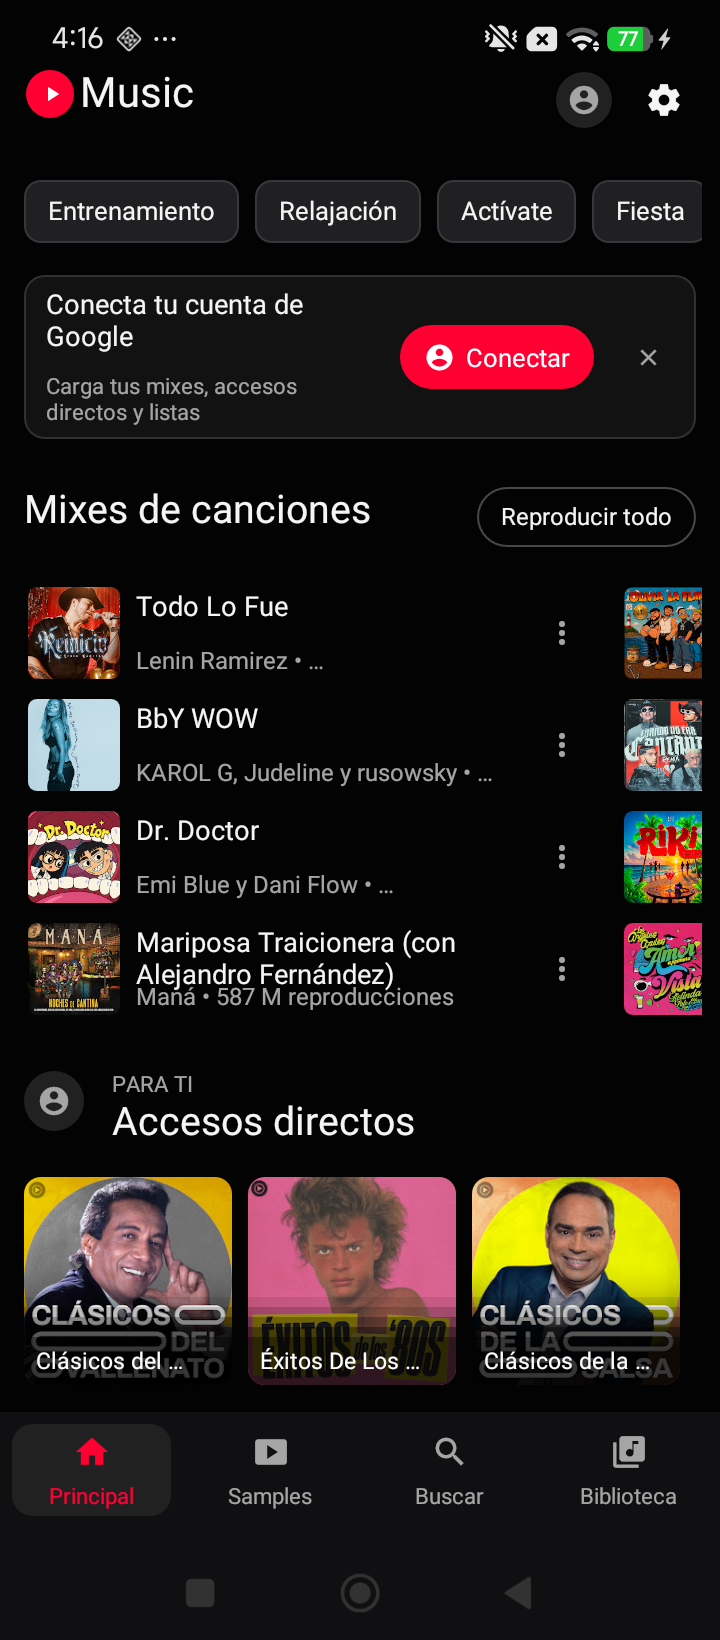
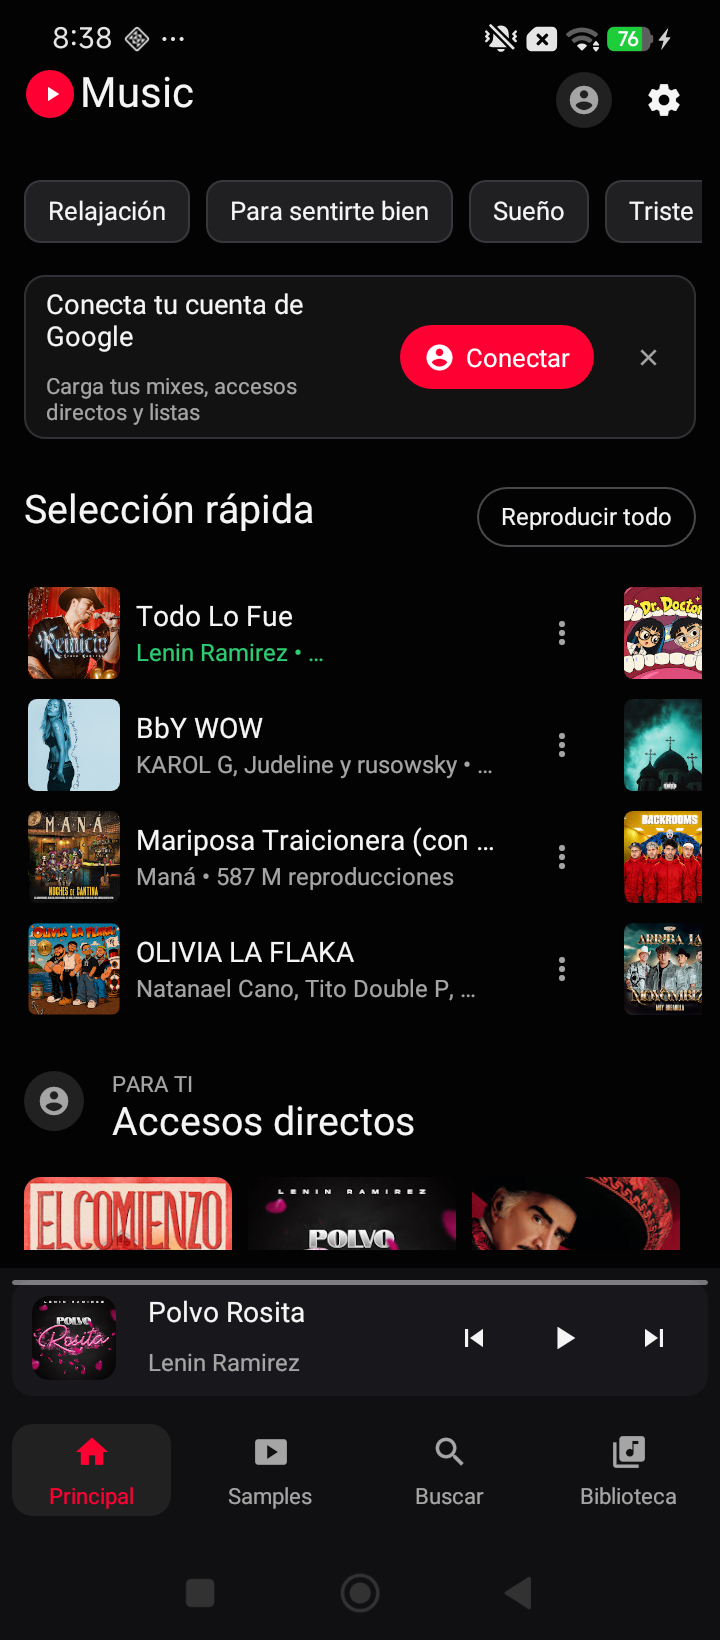
style(ui): v0.7.2 settings pills, playlist picker inset & library FAB polish

diff --git a/crates/yr-app/src/app.rs b/crates/yr-app/src/app.rs
@@ -5177,11 +5177,12 @@ impl YrApp {
                         ui.horizontal(|ui| {
                             ui.label(
                                 RichText::new(format!("Descargas offline ({})", completed.len()))
-                                    .size(16.0)
+                                    .size(14.5)
                                     .strong()
                                     .color(GREEN_OK),
                             );
                             ui.with_layout(Layout::right_to_left(Align::Center), |ui| {
+                                ui.spacing_mut().item_spacing.x = 4.0;
                                 if icons::icon_pill_button(
                                     ui,
                                     icons::Icon::Shuffle,
@@ -5193,7 +5194,6 @@ impl YrApp {
                                 {
                                     self.play_tracks_shuffled(completed.clone(), ctx);
                                 }
-                                ui.add_space(6.0);
                                 if icons::icon_pill_button(
                                     ui,
                                     icons::Icon::Play,
@@ -5406,6 +5406,7 @@ impl YrApp {
                         ui.add_space(4.0);
                     }
                 }
+                ui.add_space(72.0);
             });
         self.library_scroller.sync_bounds(lib_scroll.content_size.y, lib_scroll.inner_rect.height());
         if self.handle_pull_to_refresh(
@@ -5420,39 +5421,49 @@ impl YrApp {
         }
         self.render_pull_refresh_overlay(ctx, lib_viewport, lib_loading);
 
-        // Floating "+ Nueva" pill button in bottom right (matches YouTube Music)
-        let screen = ctx.screen_rect();
-        let fab_x = screen.right() - 120.0;
-        let has_track = self.queue.lock().map(|q| q.current_track().is_some()).unwrap_or(false);
-        #[cfg(target_os = "android")]
-        let clearance = if has_track { 234.0 } else { 158.0 };
-        #[cfg(not(target_os = "android"))]
-        let clearance = if has_track { 168.0 } else { 96.0 };
-        let fab_y = screen.bottom() - clearance;
-        egui::Area::new(egui::Id::new("yr_lib_fab"))
-            .fixed_pos(egui::pos2(fab_x, fab_y))
-            .order(egui::Order::Foreground)
-            .show(ctx, |ui| {
-                let (rect, resp) = ui.allocate_exact_size(Vec2::new(104.0, 40.0), Sense::click());
-                if ui.is_rect_visible(rect) {
-                    let bg = if resp.hovered() {
-                        Color32::from_rgb(235, 235, 240)
-                    } else {
-                        Color32::WHITE
-                    };
-                    ui.painter().rect_filled(rect, CornerRadius::same(20), bg);
-                    ui.painter().text(
-                        rect.center(),
-                        Align2::CENTER_CENTER,
-                        "+ Nueva",
-                        egui::FontId::proportional(14.0),
-                        Color32::BLACK,
-                    );
-                }
-                if resp.clicked() {
-                    self.show_new_playlist_dialog = !self.show_new_playlist_dialog;
-                }
-            });
+        // Floating "+ Nueva" pill button in bottom right on playlist-capable tabs
+        if matches!(
+            self.library_filter,
+            LibraryFilter::All | LibraryFilter::Playlists
+        ) {
+            let screen = ctx.screen_rect();
+            let fab_x = screen.right() - 120.0;
+            let has_track = self
+                .queue
+                .lock()
+                .map(|q| q.current_track().is_some())
+                .unwrap_or(false);
+            #[cfg(target_os = "android")]
+            let clearance = if has_track { 234.0 } else { 158.0 };
+            #[cfg(not(target_os = "android"))]
+            let clearance = if has_track { 168.0 } else { 96.0 };
+            let fab_y = screen.bottom() - clearance;
+            egui::Area::new(egui::Id::new("yr_lib_fab"))
+                .fixed_pos(egui::pos2(fab_x, fab_y))
+                .order(egui::Order::Foreground)
+                .show(ctx, |ui| {
+                    let (rect, resp) =
+                        ui.allocate_exact_size(Vec2::new(104.0, 40.0), Sense::click());
+                    if ui.is_rect_visible(rect) {
+                        let bg = if resp.hovered() {
+                            Color32::from_rgb(235, 235, 240)
+                        } else {
+                            Color32::WHITE
+                        };
+                        ui.painter().rect_filled(rect, CornerRadius::same(20), bg);
+                        ui.painter().text(
+                            rect.center(),
+                            Align2::CENTER_CENTER,
+                            "+ Nueva",
+                            egui::FontId::proportional(14.0),
+                            Color32::BLACK,
+                        );
+                    }
+                    if resp.clicked() {
+                        self.show_new_playlist_dialog = !self.show_new_playlist_dialog;
+                    }
+                });
+        }
     }
 
     fn render_downloads(&mut self, ui: &mut egui::Ui, ctx: &egui::Context) {
@@ -7952,9 +7963,13 @@ impl YrApp {
                 }
                 SettingsCategory::Playback => {
                     ui.label("Calidad de streaming de audio:");
+                    ui.add_space(4.0);
                     ui.horizontal_wrapped(|ui| {
+                        ui.spacing_mut().item_spacing = Vec2::new(8.0, 8.0);
                         for q in [AudioQuality::Low, AudioQuality::Medium, AudioQuality::High, AudioQuality::Best] {
-                            if ui.selectable_value(&mut self.store.data.config.stream_quality, q, q.label()).clicked() {
+                            let selected = self.store.data.config.stream_quality == q;
+                            if settings_choice_pill(ui, selected, q.label()) {
+                                self.store.data.config.stream_quality = q;
                                 let _ = self.store.save();
                             }
                         }
@@ -7963,8 +7978,8 @@ impl YrApp {
                     let eq_active = self.store.data.config.equalizer.enabled;
                     let eq_preset = self.store.data.config.equalizer.preset_name.clone();
                     egui::Frame::new()
-                        .fill(Color32::from_white_alpha(14))
-                        .stroke(Stroke::new(0.8_f32, Color32::from_white_alpha(28)))
+                        .fill(BG_SURFACE)
+                        .stroke(Stroke::new(0.8_f32, Color32::from_rgb(52, 52, 60)))
                         .corner_radius(CornerRadius::same(12))
                         .inner_margin(egui::Margin::symmetric(14, 10))
                         .show(ui, |ui| {
@@ -7993,7 +8008,7 @@ impl YrApp {
                                         ui,
                                         icons::Icon::Equalizer,
                                         "Ajustar",
-                                        Color32::from_white_alpha(24),
+                                        if eq_active { ACCENT_RED } else { BG_ELEVATED },
                                         Color32::WHITE,
                                     )
                                     .clicked()
@@ -8051,9 +8066,13 @@ impl YrApp {
                     }
                     ui.add_space(10.0);
                     ui.label("Calidad de descargas offline:");
+                    ui.add_space(4.0);
                     ui.horizontal_wrapped(|ui| {
+                        ui.spacing_mut().item_spacing = Vec2::new(8.0, 8.0);
                         for q in [AudioQuality::Low, AudioQuality::Medium, AudioQuality::High, AudioQuality::Best] {
-                            if ui.selectable_value(&mut self.store.data.config.download_quality, q, q.label()).clicked() {
+                            let selected = self.store.data.config.download_quality == q;
+                            if settings_choice_pill(ui, selected, q.label()) {
+                                self.store.data.config.download_quality = q;
                                 let _ = self.store.save();
                             }
                         }
@@ -8065,21 +8084,18 @@ impl YrApp {
                     ui.label(RichText::new(format!("Caché de streaming en disco: {cache_mb:.1} MB")).color(TEXT_SECONDARY));
                     ui.add_space(10.0);
                     ui.label("Límite de caché de streaming:");
+                    ui.add_space(4.0);
                     ui.horizontal_wrapped(|ui| {
+                        ui.spacing_mut().item_spacing = Vec2::new(8.0, 8.0);
                         for limit_mb in [128_u32, 256, 512, 1024, 2048] {
                             let label = match limit_mb {
                                 1024 => "1 GB".to_string(),
                                 2048 => "2 GB".to_string(),
                                 _ => format!("{limit_mb} MB"),
                             };
-                            if ui
-                                .selectable_value(
-                                    &mut self.store.data.config.max_stream_cache_mb,
-                                    limit_mb,
-                                    label,
-                                )
-                                .clicked()
-                            {
+                            let selected = self.store.data.config.max_stream_cache_mb == limit_mb;
+                            if settings_choice_pill(ui, selected, &label) {
+                                self.store.data.config.max_stream_cache_mb = limit_mb;
                                 let _ = self.store.save();
                                 self.stream_cache_bytes = prune_dir_to_max_bytes(
                                     &self.data_dir.join("stream_cache"),
@@ -8088,8 +8104,8 @@ impl YrApp {
                             }
                         }
                     });
-                    ui.add_space(8.0);
-                    if ui.button("Limpiar caché de streaming y portadas").clicked() {
+                    ui.add_space(12.0);
+                    if settings_action_button(ui, "Limpiar caché de streaming y portadas") {
                         let cache_dir = self.data_dir.join("stream_cache");
                         let _ = std::fs::remove_dir_all(&cache_dir);
                         let _ = std::fs::create_dir_all(&cache_dir);
@@ -8112,12 +8128,13 @@ impl YrApp {
                     }
                     ui.label(RichText::new("Las canciones que escuches no se guardarán en tu historial ni alterarán tus recomendaciones.").size(12.0).color(TEXT_SECONDARY));
                     ui.add_space(12.0);
-                    if ui.button("Borrar historial de reproducciones").clicked() {
+                    if settings_action_button(ui, "Borrar historial de reproducciones") {
                         self.store.data.recent_tracks.clear();
                         let _ = self.store.save();
                         self.set_banner("Historial de reproducciones borrado");
                     }
-                    if ui.button("Borrar historial de búsquedas").clicked() {
+                    ui.add_space(8.0);
+                    if settings_action_button(ui, "Borrar historial de búsquedas") {
                         self.store.data.search_history.clear();
                         self.store.data.search_history_items.clear();
                         let _ = self.store.save();
@@ -8131,7 +8148,7 @@ impl YrApp {
                     ui.label(RichText::new("Ajusta los mixes de inicio según tu historial de reproducción, canciones favoritas y artistas seguidos.").size(12.0).color(TEXT_SECONDARY));
                 }
                 SettingsCategory::About => {
-                    ui.heading("YR Music v0.7.1");
+                    ui.heading("YR Music v0.7.2");
                     ui.label("Cliente nativo de música 100% en Rust para Android y escritorio.");
                     ui.add_space(6.0);
                     ui.label(RichText::new("Motor de audio Symphonia PCM de ultra-baja latencia con ecualizador paramétrico de 5 bandas en tiempo real, prefetch predictivo en disco y compatibilidad completa con YouTube Music.").size(12.0).color(TEXT_SECONDARY));
@@ -8961,12 +8978,19 @@ impl YrApp {
                         ui.separator();
                         ui.add_space(8.0);
                         ui.horizontal(|ui| {
-                            let input_w = (content_w - 134.0).max(120.0);
-                            ui.add(
-                                egui::TextEdit::singleline(&mut self.new_playlist_name)
-                                    .hint_text("Nueva playlist...")
-                                    .desired_width(input_w),
-                            );
+                            let input_w = (content_w - 156.0).max(110.0);
+                            egui::Frame::new()
+                                .fill(BG_ELEVATED)
+                                .corner_radius(CornerRadius::same(18))
+                                .inner_margin(egui::Margin::symmetric(12, 6))
+                                .show(ui, |ui| {
+                                    ui.add(
+                                        egui::TextEdit::singleline(&mut self.new_playlist_name)
+                                            .hint_text("Nueva playlist...")
+                                            .frame(false)
+                                            .desired_width(input_w),
+                                    );
+                                });
                             let can_create = !self.new_playlist_name.trim().is_empty();
                             if ui
                                 .add(
@@ -8996,7 +9020,7 @@ impl YrApp {
                             }
                         });
                         #[cfg(target_os = "android")]
-                        ui.add_space(46.0);
+                        ui.add_space(62.0);
                     });
             });
 
@@ -9243,7 +9267,7 @@ impl YrApp {
                         }
                         if menu_row(ui, icons::Icon::Help, "Ayuda y comentarios").clicked() {
                             self.show_account_modal = false;
-                            self.set_banner("YR Music v0.7.1 • Pure Rust");
+                            self.set_banner("YR Music v0.7.2 • Pure Rust");
                         }
 
                         #[cfg(target_os = "android")]
@@ -9701,6 +9725,33 @@ fn render_artist_card_row(
             }
         });
     clicked
+}
+
+fn settings_choice_pill(ui: &mut egui::Ui, selected: bool, label: &str) -> bool {
+    let btn = egui::Button::new(
+        RichText::new(label)
+            .size(13.0)
+            .strong()
+            .color(Color32::WHITE),
+    )
+    .fill(if selected { ACCENT_RED } else { BG_ELEVATED })
+    .stroke(if selected {
+        Stroke::NONE
+    } else {
+        Stroke::new(0.8_f32, Color32::from_rgb(56, 56, 66))
+    })
+    .corner_radius(CornerRadius::same(16))
+    .min_size(Vec2::new(32.0, 32.0));
+    ui.add(btn).clicked()
+}
+
+fn settings_action_button(ui: &mut egui::Ui, label: &str) -> bool {
+    let btn = egui::Button::new(RichText::new(label).size(13.5).color(Color32::WHITE))
+        .fill(BG_ELEVATED)
+        .stroke(Stroke::new(0.8_f32, Color32::from_rgb(56, 56, 66)))
+        .corner_radius(CornerRadius::same(16))
+        .min_size(Vec2::new(140.0, 34.0));
+    ui.add(btn).clicked()
 }
 
 /// Paints a remote image only once ready so failed loads preserve the clean vector placeholder.

diff --git a/README.md b/README.md
@@ -70,7 +70,7 @@ El proyecto está modularizado en un espacio de trabajo de Cargo limpio y desaco
 
 Puedes descargar el APK precompilado y firmado para Android en la sección de [Releases de GitHub](https://github.com/uamo11/YR/releases).
 
-1. Descarga el archivo [`yr-music-v0.7.1-android.apk`](https://github.com/uamo11/YR/releases/latest/download/yr-music-v0.7.1-android.apk).
+1. Descarga el archivo [`yr-music-v0.7.2-android.apk`](https://github.com/uamo11/YR/releases/latest/download/yr-music-v0.7.2-android.apk).
 2. Habilita la instalación desde orígenes desconocidos si tu dispositivo lo solicita.
 3. Instala y disfruta de música sin publicidad y con la máxima velocidad de respuesta.
 
